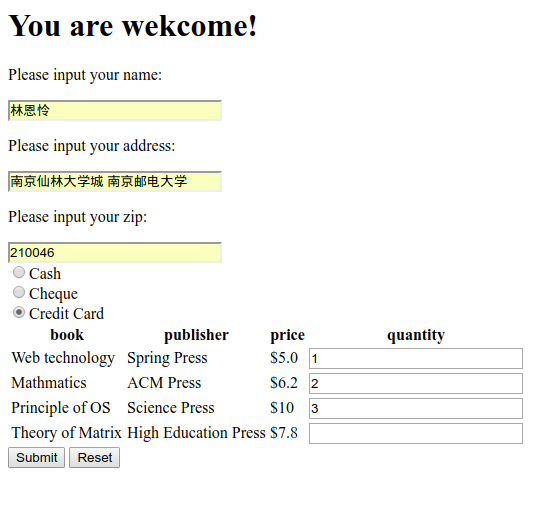
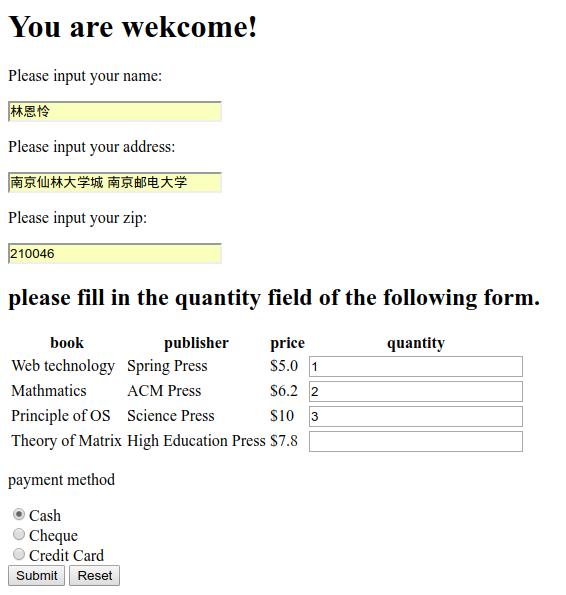
搞定报告

Changed region(s): [[0.0, 0.4715, 0.9814, 1.0], [0.0, 0.1179, 0.4164, 0.442], [0.0, 0.0295, 0.4758, 0.0884]]

diff --git a/exp2/main.html b/exp2/main.html
@@ -14,44 +14,46 @@
             <p>Please input your zip:</p>
             <input type="text" name="zip" size="30"/>
             <br/>
-
+            <h2>please fill in the quantity field of the following form.</h2>
+            <table border-"1px" padding="lpx">
+                <tr>
+                    <th>book</th>
+                    <th>publisher</th>
+                    <th>price</th>
+                    <th>quantity</th>
+                </tr>
+                <tr>
+                    <td>Web technology</td>
+                    <td>Spring Press</td>
+                    <td>$5.0</td>
+                    <td> <input type="text" name="WT" size="30"/> </td>
+                </tr>
+                <tr>
+                    <td>Mathmatics</td>
+                    <td>ACM Press</td>
+                    <td>$6.2</td>
+                    <td> <input type="text" name="Ma" size="30"> </td>
+                </tr>
+                <tr>
+                    <td>Principle of OS</td>
+                    <td>Science Press</td>
+                    <td>$10</td>
+                    <td> <input type="text" name="PO" size="30"/> </td>
+                </tr>
+                <tr>
+                    <td>Theory of Matrix</td>
+                    <td>High Education Press</td>
+                    <td>$7.8</td>
+                    <td> <input type="text" name="TM" size="30"/> </td>
+                </tr>
+            </table>
+            <p> payment method </p>
             <input type="radio" name="payment" value="cash" checked="checked">Cash <br/>
             <input type="radio" name="payment" value="cheque" />Cheque<br/>
             <input type="radio" name="payment" value="creditcard" />Credit Card<br/>
-        <table border-"1px" padding="lpx">
-            <tr>
-                <th>book</th>
-                <th>publisher</th>
-                <th>price</th>
-                <th>quantity</th>
-            </tr>
-            <tr>
-                <td>Web technology</td>
-                <td>Spring Press</td>
-                <td>$5.0</td>
-                <td> <input type="text" name="WT" size="30"/> </td>
-            </tr>
-            <tr>
-                <td>Mathmatics</td>
-                <td>ACM Press</td>
-                <td>$6.2</td>
-                <td> <input type="text" name="Ma" size="30"> </td>
-            </tr>
-            <tr>
-                <td>Principle of OS</td>
-                <td>Science Press</td>
-                <td>$10</td>
-                <td> <input type="text" name="PO" size="30"/> </td>
-            </tr>
-            <tr>
-                <td>Theory of Matrix</td>
-                <td>High Education Press</td>
-                <td>$7.8</td>
-                <td> <input type="text" name="TM" size="30"/> </td>
-            </tr>
-        </table>
-        <input type="submit" value="Submit"/>
-        <input type="reset" value="Reset" onclick="reset()"/>
+
+            <input type="submit" value="Submit"/>
+            <input type="reset" value="Reset" onclick="reset()"/>
         </form>
         <script type="text/javascript">
 function reset() {

diff --git a/exp1/js.html b/exp1/js.html
@@ -8,10 +8,10 @@
 	</head>
 	<body>
         <form>
-            a: <input type="text" id="a"/><br>
-            b: <input type="text" id="b"/><br>
-            c: <input type="text" id="c"/><br>
-            <input type="button" value="计算" onclick="root()"/><br>
+            a: <input type="text" id="a"/><br/>
+            b: <input type="text" id="b"/><br/>
+            c: <input type="text" id="c"/><br/>
+            <input type="button" value="计算" onclick="root()"/><br/>
             <p id="root1" />
             <p id="root2" />
         </form>
